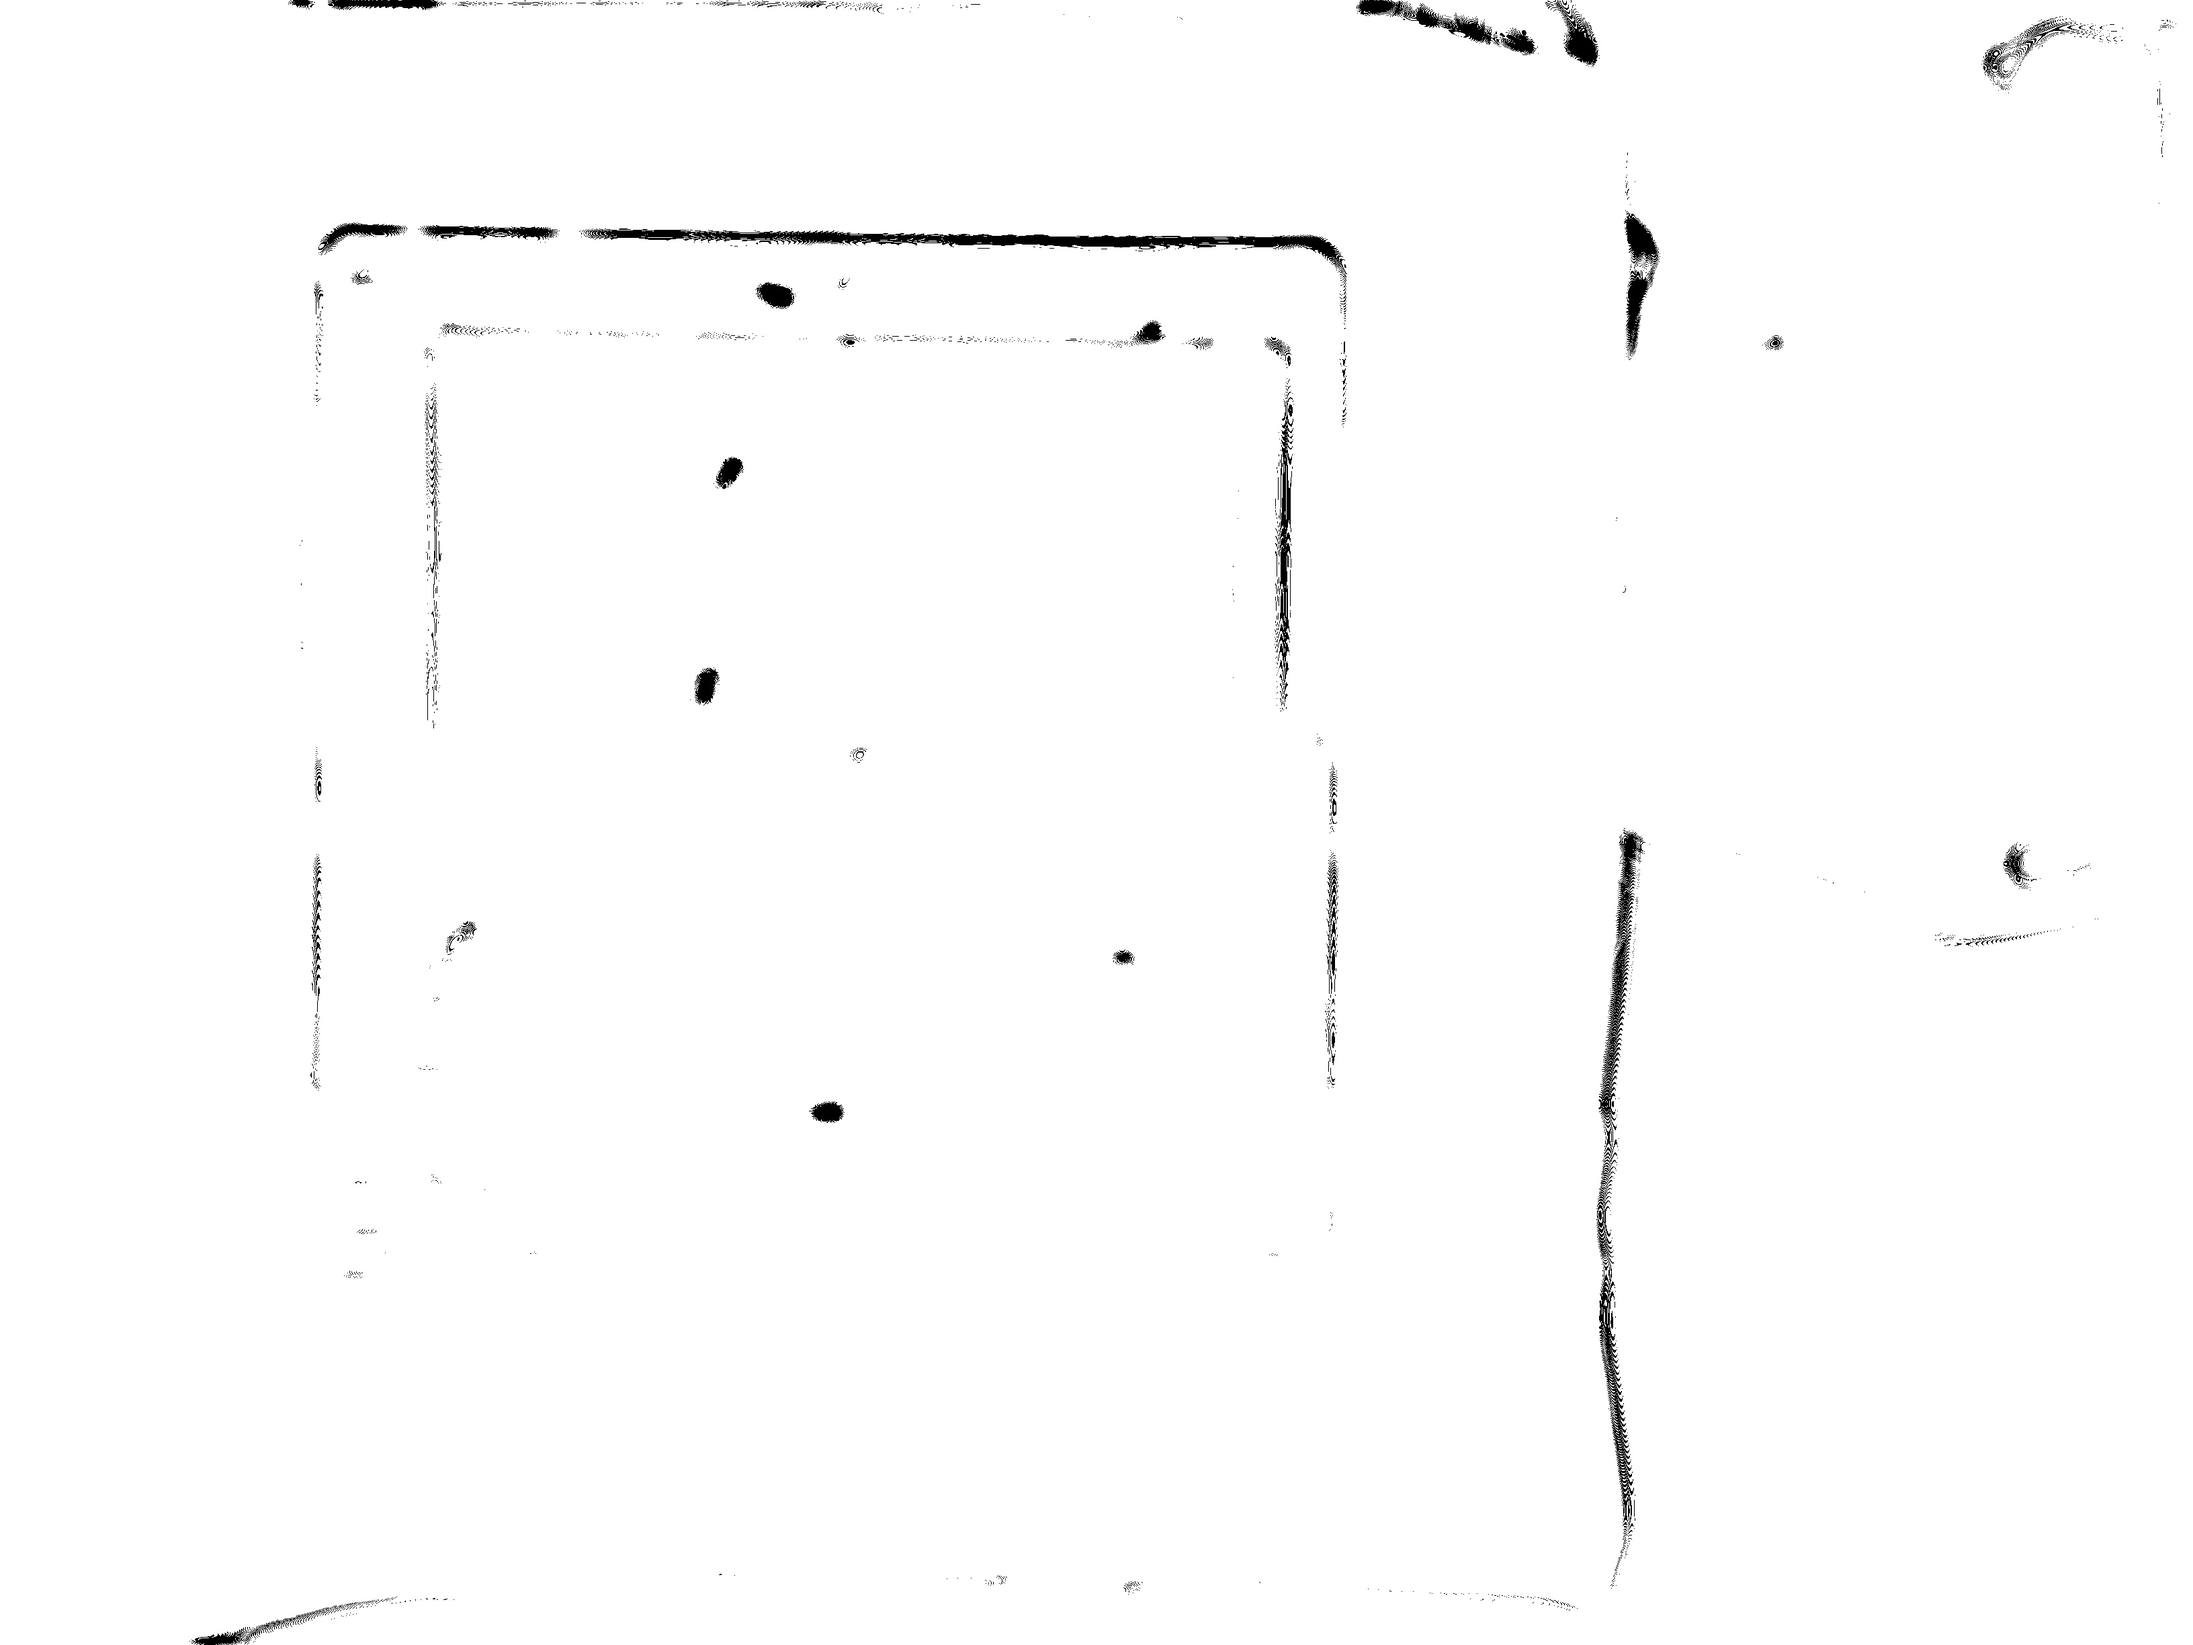
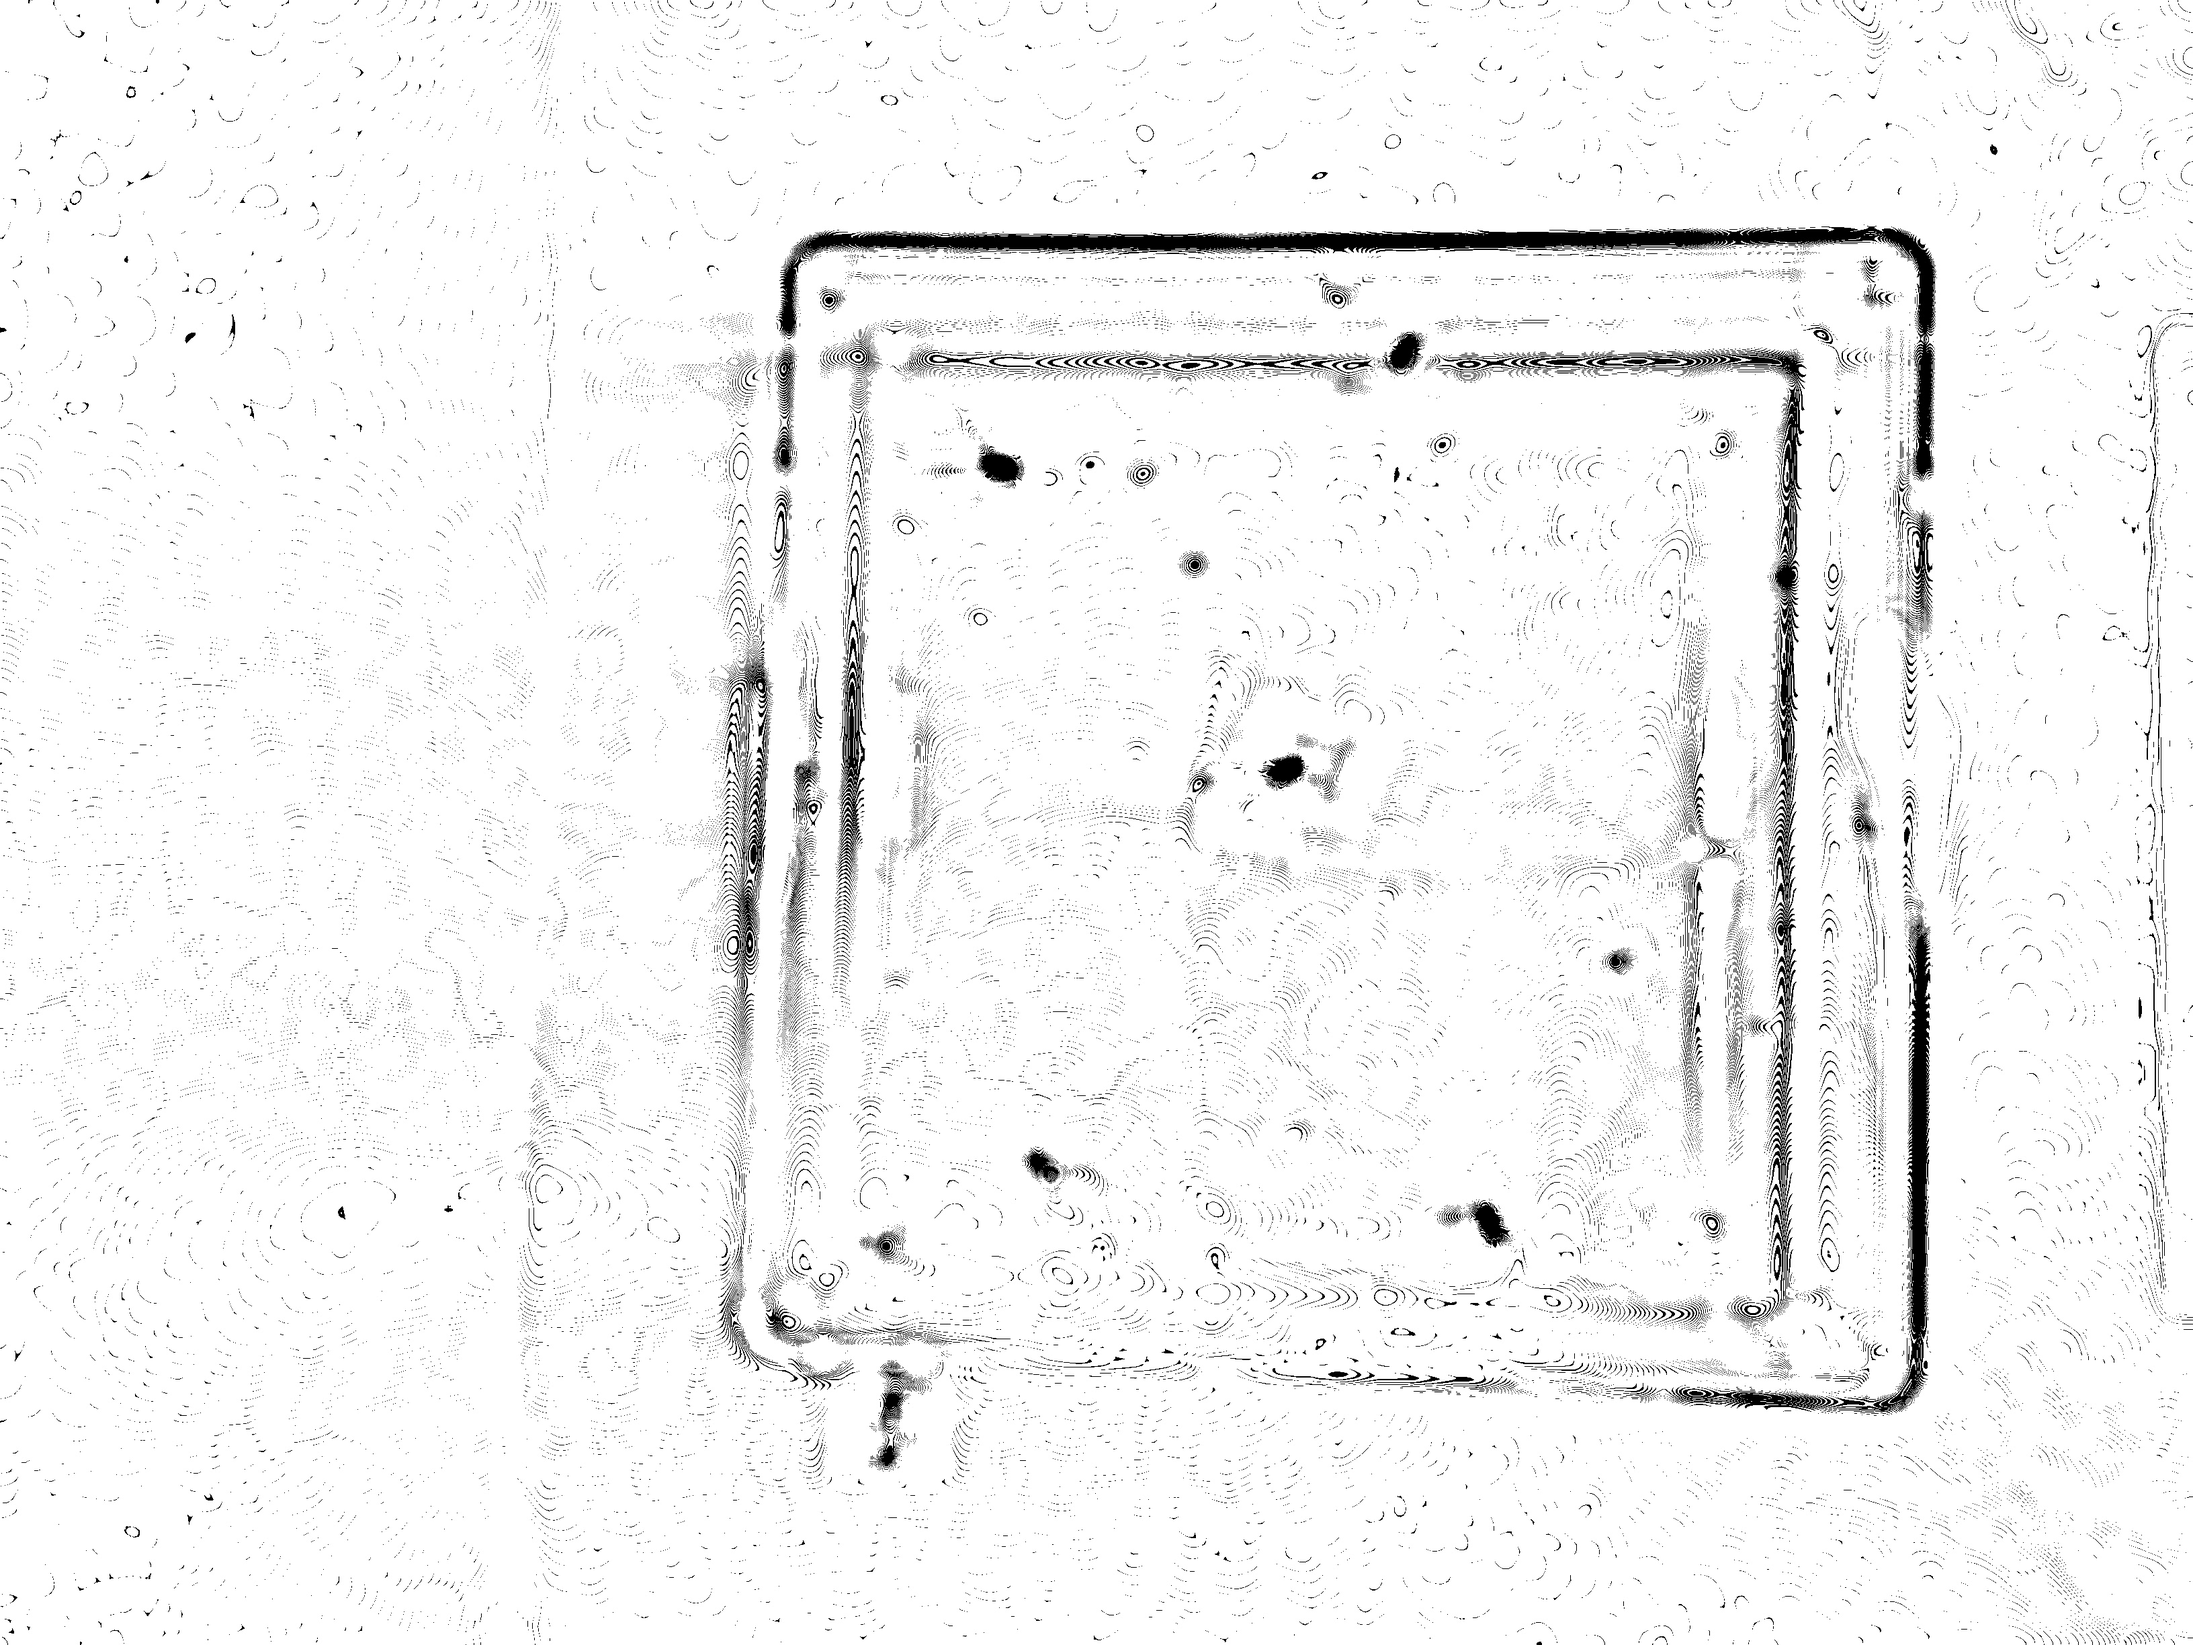
add pairwise distances

diff --git a/get_spiders.py b/get_spiders.py
@@ -1,8 +1,34 @@
 import cv2
 import numpy as np
 import sys
+from math import sqrt
+from os.path import basename
 
-name = sys.argv[1].split('.')[0]
+def pairwise_distance(locations):
+    """Return pairwise distances between all (x,y) points in locations."""
+    loc = locations
+    # returns None if there's only one location.
+    if len(loc) == 1:
+        return None
+    else:
+        distances = []
+        while len(loc) >= 2:
+            last_location = loc.pop()
+            # probably a better way to do this that doesn't require nesting a list
+            distances.append([distance(last_location, i) for i in loc])
+        distances = sum(distances, [])
+        return distances
+        # return reduce(lambda x, y: x + y, distances) / len(distances)
+
+
+# function to find distance in two dimensions
+def distance(x,y):
+    """Return distance between x and y."""
+    d = sqrt((y[0] - x[0])**2 + (y[1] - x[1])**2)
+    return round(d, 3)
+
+name = basename(sys.argv[1].split('.')[0])
+print "name : {}".format(name)
 
 # import in photo
 photo = cv2.imread(sys.argv[1])
@@ -13,7 +39,7 @@ blur = cv2.GaussianBlur(photo, (0,0), 15)
 cv2.imwrite("blur.jpg", blur)
 
 # threshold for dark areas
-threshold = cv2.adaptiveThreshold(cv2.cvtColor(blur, cv2.COLOR_BGR2GRAY),255,cv2.ADAPTIVE_THRESH_GAUSSIAN_C,cv2.THRESH_BINARY,35,2)
+threshold = cv2.adaptiveThreshold(cv2.cvtColor(blur, cv2.COLOR_BGR2GRAY),255,cv2.ADAPTIVE_THRESH_GAUSSIAN_C,cv2.THRESH_BINARY,31,1)
 # ret, threshold = cv2.threshold(cv2.cvtColor(blur, cv2.COLOR_BGR2GRAY), 80, 255, cv2.THRESH_BINARY)
 cv2.imwrite("threshold.jpg", threshold)
 
@@ -21,16 +47,29 @@ cv2.imwrite("threshold.jpg", threshold)
 contours = cv2.findContours(threshold, cv2.RETR_TREE, cv2.CHAIN_APPROX_SIMPLE)[0]
 
 potential_contours = []
-
 for c in contours:
     # find area, extent
     area = cv2.contourArea(c)
     x,y,w,h = cv2.boundingRect(c)
     aspect_ratio = float(w)/h
-    if area > 600 and area < 3000 and aspect_ratio > .5 and aspect_ratio < 2:
+    if area > 500 and area < 3000 and aspect_ratio > .5 and aspect_ratio < 2:
         potential_contours.append(c)
 
+largest = sorted(potential_contours, key=cv2.contourArea, reverse=True)[:6]
 
-cv2.drawContours(photo, potential_contours, -1, (200,180,72), -1)
+# get centroids:
+centroids = []
+for c in largest:
+    m = cv2.moments(c)
+    centroids.append((int(m['m10'] / m['m00']), int(m['m01'] / m['m00'])))
+
+# draw contours, centroids on image
+cv2.drawContours(photo, largest, -1, (50,50,200), -1)
+for center in centroids:
+    cv2.circle(photo, center, 6, (200,180,72), -1)
+
+# get distances
+distances = pairwise_distance(centroids)
+cv2.putText(photo, str(round(sum(distances) / len(distances),2)), (200,200), cv2.FONT_HERSHEY_SIMPLEX, 4, (50,50,200))
 
 cv2.imwrite("out_{}.jpg".format(name), photo)
